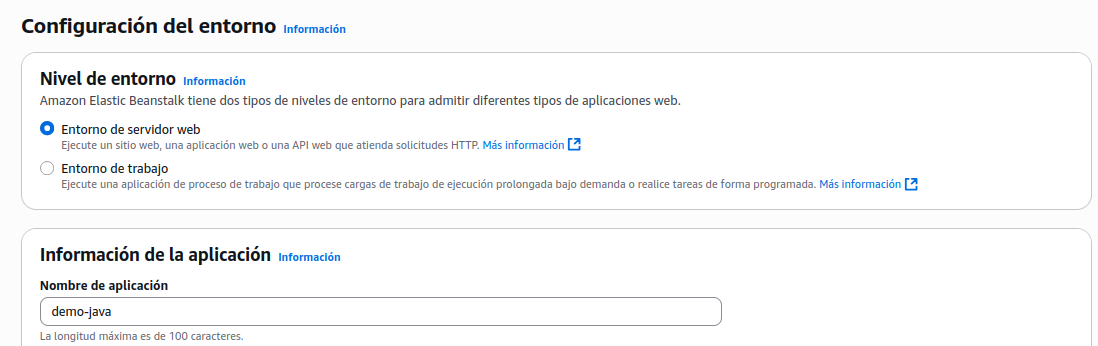
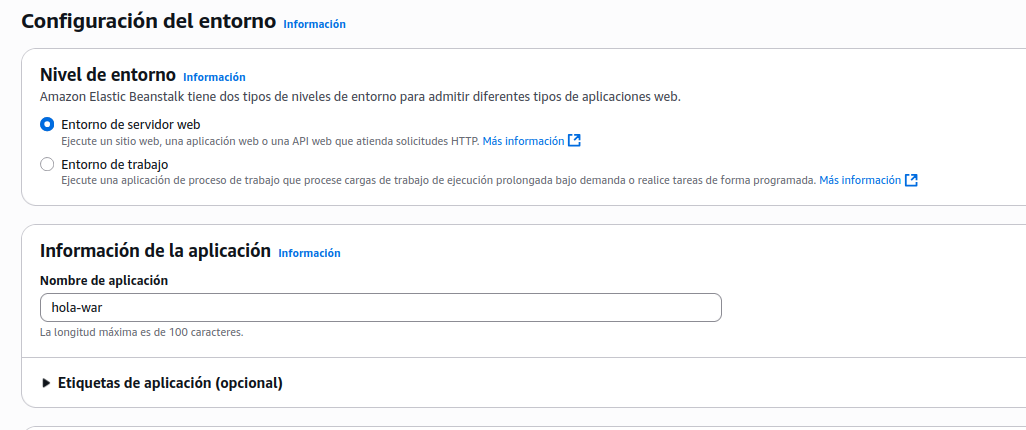
Práctica 5 corregida

diff --git a/docs/Ud0 Introduccion/P0_5.md b/docs/Ud0 Introduccion/P0_5.md
@@ -7,160 +7,191 @@ title: "P0.5: Despliegue Java en AWS Elastic Beanstalk"
 En esta práctica aprenderás a publicar una aplicación Java sencilla en **Elastic Beanstalk (EB)** usando la **consola web de AWS**.  
 Al final tendrás una **URL pública** con tu app en la nube. 🚀
 
+
 ---
 
 ## :material-flag-checkered: Objetivo
-Desplegar una API **Hello** de Spring Boot sobre EB (plataforma **Java / Corretto 21**) y entender el ciclo:
+- Generar un proyecto **Spring Boot WAR**.
+- Verlo **en local**.
+- Empaquetar el **`.war`** y **subirlo a Elastic Beanstalk (Tomcat)**.
+- Abrir la **URL pública** y comprobar el *Hola Mundo*.
 
-➡ **Subir → Desplegar → Probar → Limpiar**
-
-!!! info "Duración estimada"
-    ⏱ 25–35 minutos (la primera vez).
-
----
-
-## :material-format-list-checks: Requisitos 
-- Archivo **`java-eb-demo.zip`**:.  
-- *(Opcional)* Maven y Java 21 si quieres recompilar.
-
-!!! tip "¿Qué hay dentro del ZIP?"
-    - Un **`.jar`** ejecutable de Spring Boot.  
-    - Un **`Procfile`** que indica a EB cómo arrancar la app.  
+!!! info "Requisitos"
+    - Cuenta de AWS (Educate/Academy/Free Tier).
+    - Java 17 y Maven (o wrapper `./mvnw` del proyecto).
+    - Navegador web y acceso a la **Consola de AWS**.
 
 ---
 
-## :material-play-circle: Paso a paso
+## :material-download: 1) Crear el proyecto en Start.Spring.io
 
-### :material-login-variant: 1) Acceso al servicio
-1. Entra en la consola: [https://www.awsacademy.com/login](https://www.awsacademy.com/login)  
-2. Busca **Elastic Beanstalk** :material-magnify:.
+1. Abre <https://start.spring.io>  
+2. Selecciona:
+   - **Project:** Maven
+   - **Language:** Java
+   - **Spring Boot:** 3.x
+   - **Packaging:** **War**
+   - **Java:** **17**
+   - **Group:** `com.example`
+   - **Artifact:** `hola-war`
+   - **Name:** `hola-war`
+   - **Package name:** `com.example.holawar`
+   - **Dependencies:** `Spring Web`
+3. Pulsa **Generate** → se descargará `hola-war.zip`.
+
+---
+
+## :material-folder: 2) Descomprimir y abrir
+
+```bash
+unzip hola-war.zip
+cd hola-war
+code .    # opcional: abre en VS Code
+```
+
+Estructura inicial (resumen):
+```
+hola-war/
+ ├─ pom.xml
+ └─ src/main/java/com/example/holawar/HolaWarApplication.java
+```
+
+---
+
+## :material-file-plus: 3) Añadir clases (ServletInitializer + Controller)
+
+### 3.1 `ServletInitializer` (necesario para WAR en Tomcat)
+Crea el archivo **`src/main/java/com/example/holawar/ServletInitializer.java`**:
+
+```java
+package com.example.holawar;
+
+import org.springframework.boot.builder.SpringApplicationBuilder;
+import org.springframework.boot.web.servlet.support.SpringBootServletInitializer;
+
+public class ServletInitializer extends SpringBootServletInitializer {
+  @Override
+  protected SpringApplicationBuilder configure(SpringApplicationBuilder application) {
+    return application.sources(HolaWarApplication.class);
+  }
+}
+```
+
+### 3.2 `HelloController`
+Crea **`src/main/java/com/example/holawar/HelloController.java`**:
+
+```java
+package com.example.holawar;
+
+import org.springframework.web.bind.annotation.GetMapping;
+import org.springframework.web.bind.annotation.RestController;
+
+@RestController
+public class HelloController {
+
+  @GetMapping("/")
+  public String hello() {
+    return "Hola mundo desde WAR en Tomcat (Elastic Beanstalk)!";
+  }
+}
+```
+
+---
+
+## :material-laptop: 4) Probar en local
+
+Usa el *wrapper* o Maven instalado:
+
+```bash
+./mvnw spring-boot:run      # macOS/Linux
+# o
+mvn spring-boot:run         # si tienes Maven instalado
+```
+
+Abre <http://localhost:8080> → debería verse el texto.
+
+!!! tip "¿Por qué `spring-boot:run`?"
+    Al empaquetar como **WAR** con Tomcat en *scope `provided`*, ejecutar `java -jar target/*.war` no siempre funciona. Para pruebas locales, usa `spring-boot:run`.
+
+---
+
+## :material-package-variant: 5) Empaquetar el `.war`
+
+```bash
+./mvnw clean package   # o: mvn clean package
+```
+
+Se genera en:
+
+```
+target/hola-war-0.0.1-SNAPSHOT.war
+```
+
+---
+
+## :material-aws: 6) Desplegar en AWS Elastic Beanstalk (Tomcat)
+
+
+1. Entra en la **Consola de AWS** → busca **Elastic Beanstalk** → **Create application**.  
 ![AWS Elastic Beanstalk](P0_5/beanstalk.png)
+2. **Application name:** `hola-war`  
+![AWS Elastic Beanstalk](P0_5/form1.png)
+3. **Platform:** **Tomcat** → *Corretto 17, Amazon Linux 2*  
+4. **Application code:** **Upload your code** → sube `target/hola-war-0.0.1-SNAPSHOT.war`  
+![AWS Elastic Beanstalk](P0_5/form2.png)
+5. Roles IAM: selecciona los que aparecen por defecto en los desplegables.  
+![AWS Elastic Beanstalk](P0_5/form3.png)
+6. Las siguientes pantallas de configuración son opcionales, déjalas como están por defecto y pulsa siguiente.
+7. **Create environment** (Web server).  
+8. Espera a **Health: OK** y haz clic en la **URL** que muestra EB.
+![AWS Elastic Beanstalk](P0_5/form5.png)
+
+Deberías ver: *“Hola mundo desde WAR en Tomcat (Elastic Beanstalk)!”*
+
+![AWS Elastic Beanstalk](P0_5/form6.png)
 
 ---
 
-### :material-application: 2) Crear la aplicación
-1. Haz clic en **Create application**.  
-2. Completa los datos:  
-   - **Application name** → `demo-java`  
-        ![NombreAplicacion](P0_5/form1.png)
-   - **Plataforma** → **Java** → *Corretto 17 running on 64bit Amazon Linux 2*  
-   - **Código de la aplicación** → **Cargar el código** → selecciona `java-eb-demo.zip`  
-        ![SubirArchivo](P0_5/form2.png)
-   - **Políticas**  → selecciona las que hay por defecto
-        ![SubirArchivo](P0_5/form3.png)
-   - El resto de pantallas son opcionales. Pulsa siguiente hasta llegar a la final.
-3. Pulsa en **Create environment** (tipo **Web server**).
+## :material-pencil: 7) Cambiar el mensaje y volver a desplegar
 
-!!! note "Tiempo de espera"
-    EB creará automáticamente:  
-    - una instancia **EC2**  
-    - un balanceador de carga  
-    - grupos de seguridad y S3  
-    <br>⏳ Aproximadamente 2–3 minutos.  
-    <br>Continúa cuando veas **Health: OK** :material-check-circle:.
+Edita `HelloController.java`:
+```java
+return "Hola, <tu nombre>!";
+```
+
+Compila y despliega de nuevo:
+```bash
+mvn clean package
+# En EB → Upload and deploy → sube el nuevo .war
+```
 
 ---
 
-### :material-web: 3) Probar la aplicación
-Cuando el entorno esté listo:  
-- Haz clic en la **URL pública** que aparece arriba.  
-- Verás el mensaje:  
+## :material-lifebuoy: 8) Solución de problemas
 
+??? question "502 Bad Gateway / Health rojo"
+    - Revisa que la **plataforma** es **Tomcat (Corretto 17)**, no Java SE.
+    - Saca **Logs → Request logs → Last 100 lines** y mira `catalina.out` / `web.stderr.log`.
 
-Hola Mundo!
+??? question "No arranca en local"
+    - Usa `mvn spring-boot:run` (o `./mvnw spring-boot:run`).
+    - Comprueba `java -version` = 17.
 
+??? question "Generé con Java 21"
+    - EB Tomcat usa **Corretto 17** → reconstruye el proyecto con Java **17**.
 
-??? note "🧪 Ejercicio final: modifica, prueba en local y despliega en Elastic Beanstalk"
-    # :material-flag-checkered: Objetivo
-    Cambiar el texto de la app a **“Hola, <tu nombre>”**, **compilar** y **probar en local**, y finalmente **empaquetar** para **subir a Elastic Beanstalk (EB)**.
+---
 
-    !!! warning "¿Qué material necesitas?"
-        - **Opción A (recomendada):** el **proyecto completo** (código fuente + `pom.xml`).  
-          → Podrás **modificar**, **compilar** y **crear tu propio ZIP** para EB.  
-        - **Opción B (limitada):** solo un **ZIP precompilado** con `Procfile` + `target/`.  
-          → **No** podrás cambiar el mensaje (no hay código fuente). Pide el proyecto completo.
+## :material-broom: 9) Limpieza (evitar costes)
+En Elastic Beanstalk → tu entorno → **Actions → Terminate environment**.  
+(Opcional: elimina la **Application** y el **bucket S3** si no la vas a reutilizar.)
 
-    ---
+---
 
-    ## :material-source-repository: A) Si tienes el **proyecto completo**
-
-    ### 1) Cambia el mensaje
-    Edita la clase, por ejemplo:
-
-    ```java
-    @GetMapping("/")
-    public String helloWorld() {
-      return "Hola, Laura!";
-    }
-    ```
-
-    ### 2) Compila y prueba en local
-    ```bash
-    mvn clean package
-    java -jar target/eb-java-demo-0.0.1-SNAPSHOT.jar
-    ```
-
-    Abre <http://localhost:8080> → debería mostrar **Hola, <tu nombre>**.
-
-    !!! tip "¿No sabes el nombre exacto del JAR?"
-        Mira qué JAR creó Maven:
-        ```bash
-        ls target/*.jar
-        ```
-        Si es distinto, úsalo en `java -jar ...`.
-
-    ### 3) Empaqueta para Elastic Beanstalk
-    Crea un ZIP con **exactamente**:
-    - `Procfile` (en la **raíz** del ZIP)
-    - la carpeta `target/` con tu `.jar`
-
-    ```bash
-    zip -r java-eb-demo.zip Procfile target/
-    ```
-
-    **Procfile** (en la **raíz del proyecto**):
-
-    ```
-    web: java -Dserver.port=$PORT -jar target/eb-java-demo-0.0.1-SNAPSHOT.jar
-    ```
-
-    > Si el nombre del jar cambia, actualiza esa línea, o usa esta variante robusta:
-
-    ```
-    web: bash -lc 'java -Dserver.port=$PORT -jar $(ls target/*.jar | head -n1)'
-    ```
-
-    ### 4) Sube a Elastic Beanstalk
-    1. AWS Console → **Elastic Beanstalk** → tu **entorno** → **Upload and deploy**.  
-    2. Sube `java-eb-demo.zip`.  
-    3. Espera **Health: OK** → abre la **URL pública** → verás tu mensaje.
-
-    ---
-
-    ## :material-package-down: B) Si solo tienes un **ZIP precompilado**
-    Con un ZIP que contiene **`Procfile` + `target/`** **no** puedes cambiar el texto: faltarían los fuentes.  
-    Pide el **proyecto completo** o descarga uno de ejemplo, edítalo y sigue los pasos del apartado A.
-
-    ---
-
-    ## :material-playlist-check: Checklist rápido
-    - [ ] Modifiqué el texto en el código fuente.  
-    - [ ] Compilé: `mvn clean package` sin errores.  
-    - [ ] Probé local: `java -jar target/<mi-jar>.jar` → “Hola, <mi nombre>”.  
-    - [ ] Creé `java-eb-demo.zip` con **Procfile** + **target/**.  
-    - [ ] Desplegué en EB y vi **Health: OK**.  
-
-    ---
-
-    ## :material-lifebuoy: Problemas típicos y solución
-
-    ??? question "EB falla con 502 / Health rojo"
-        - Asegúrate de que el **`Procfile`** está en la **raíz del ZIP**.  
-        - Confirma que el nombre del `.jar` del `Procfile` coincide con el real.  
-        - Usa la variante `bash -lc '... *.jar'` si el nombre cambia.  
-        - Revisa logs en EB → **Logs → Request logs → Last 100 lines**.
-
-    ??? question "No arranca en local"
-        - Comprueba la versión de Java (`java -version`) y que el JAR existe (`ls target/*.jar`).  
-        - Vuelve a compilar con `mvn clean package` y mira errores de compilación.
-
+## :material-check-bold: Checklist final
+- [ ] Proyecto Spring Boot **WAR** creado con Java 17.  
+- [ ] `ServletInitializer` añadido.  
+- [ ] `HelloController` con `@GetMapping("/")`.  
+- [ ] Probado local con `spring-boot:run`.  
+- [ ] `.war` empaquetado y subido a **EB Tomcat**.  
+- [ ] URL pública mostrando el *Hola Mundo*.  
